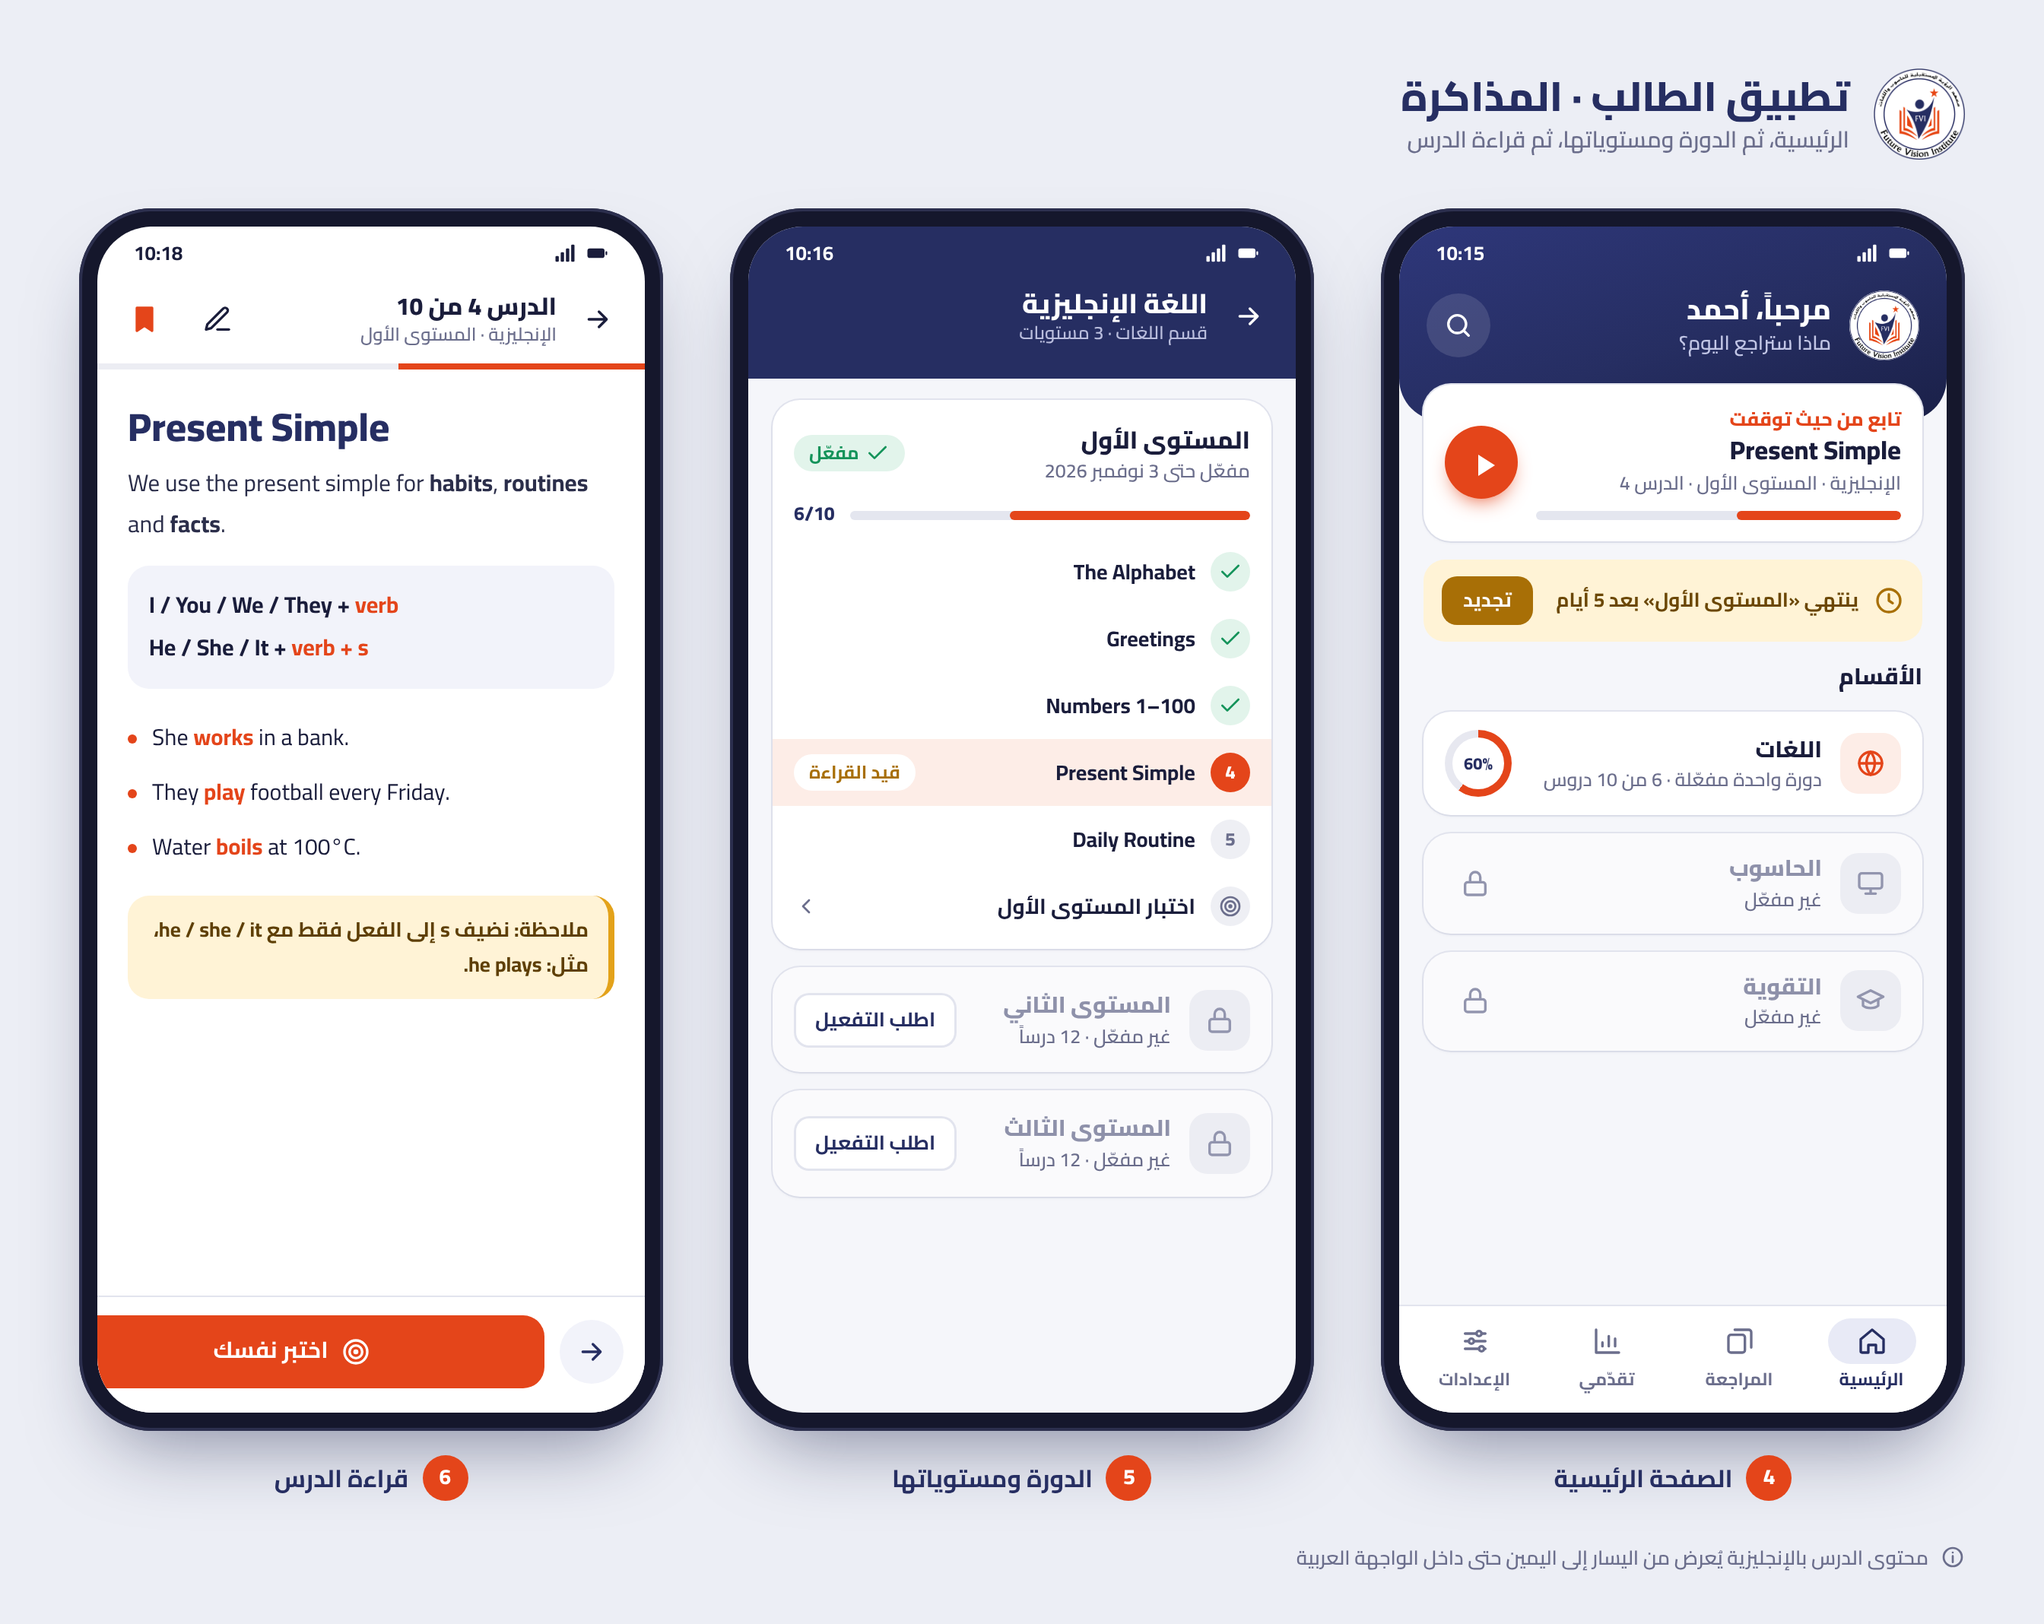
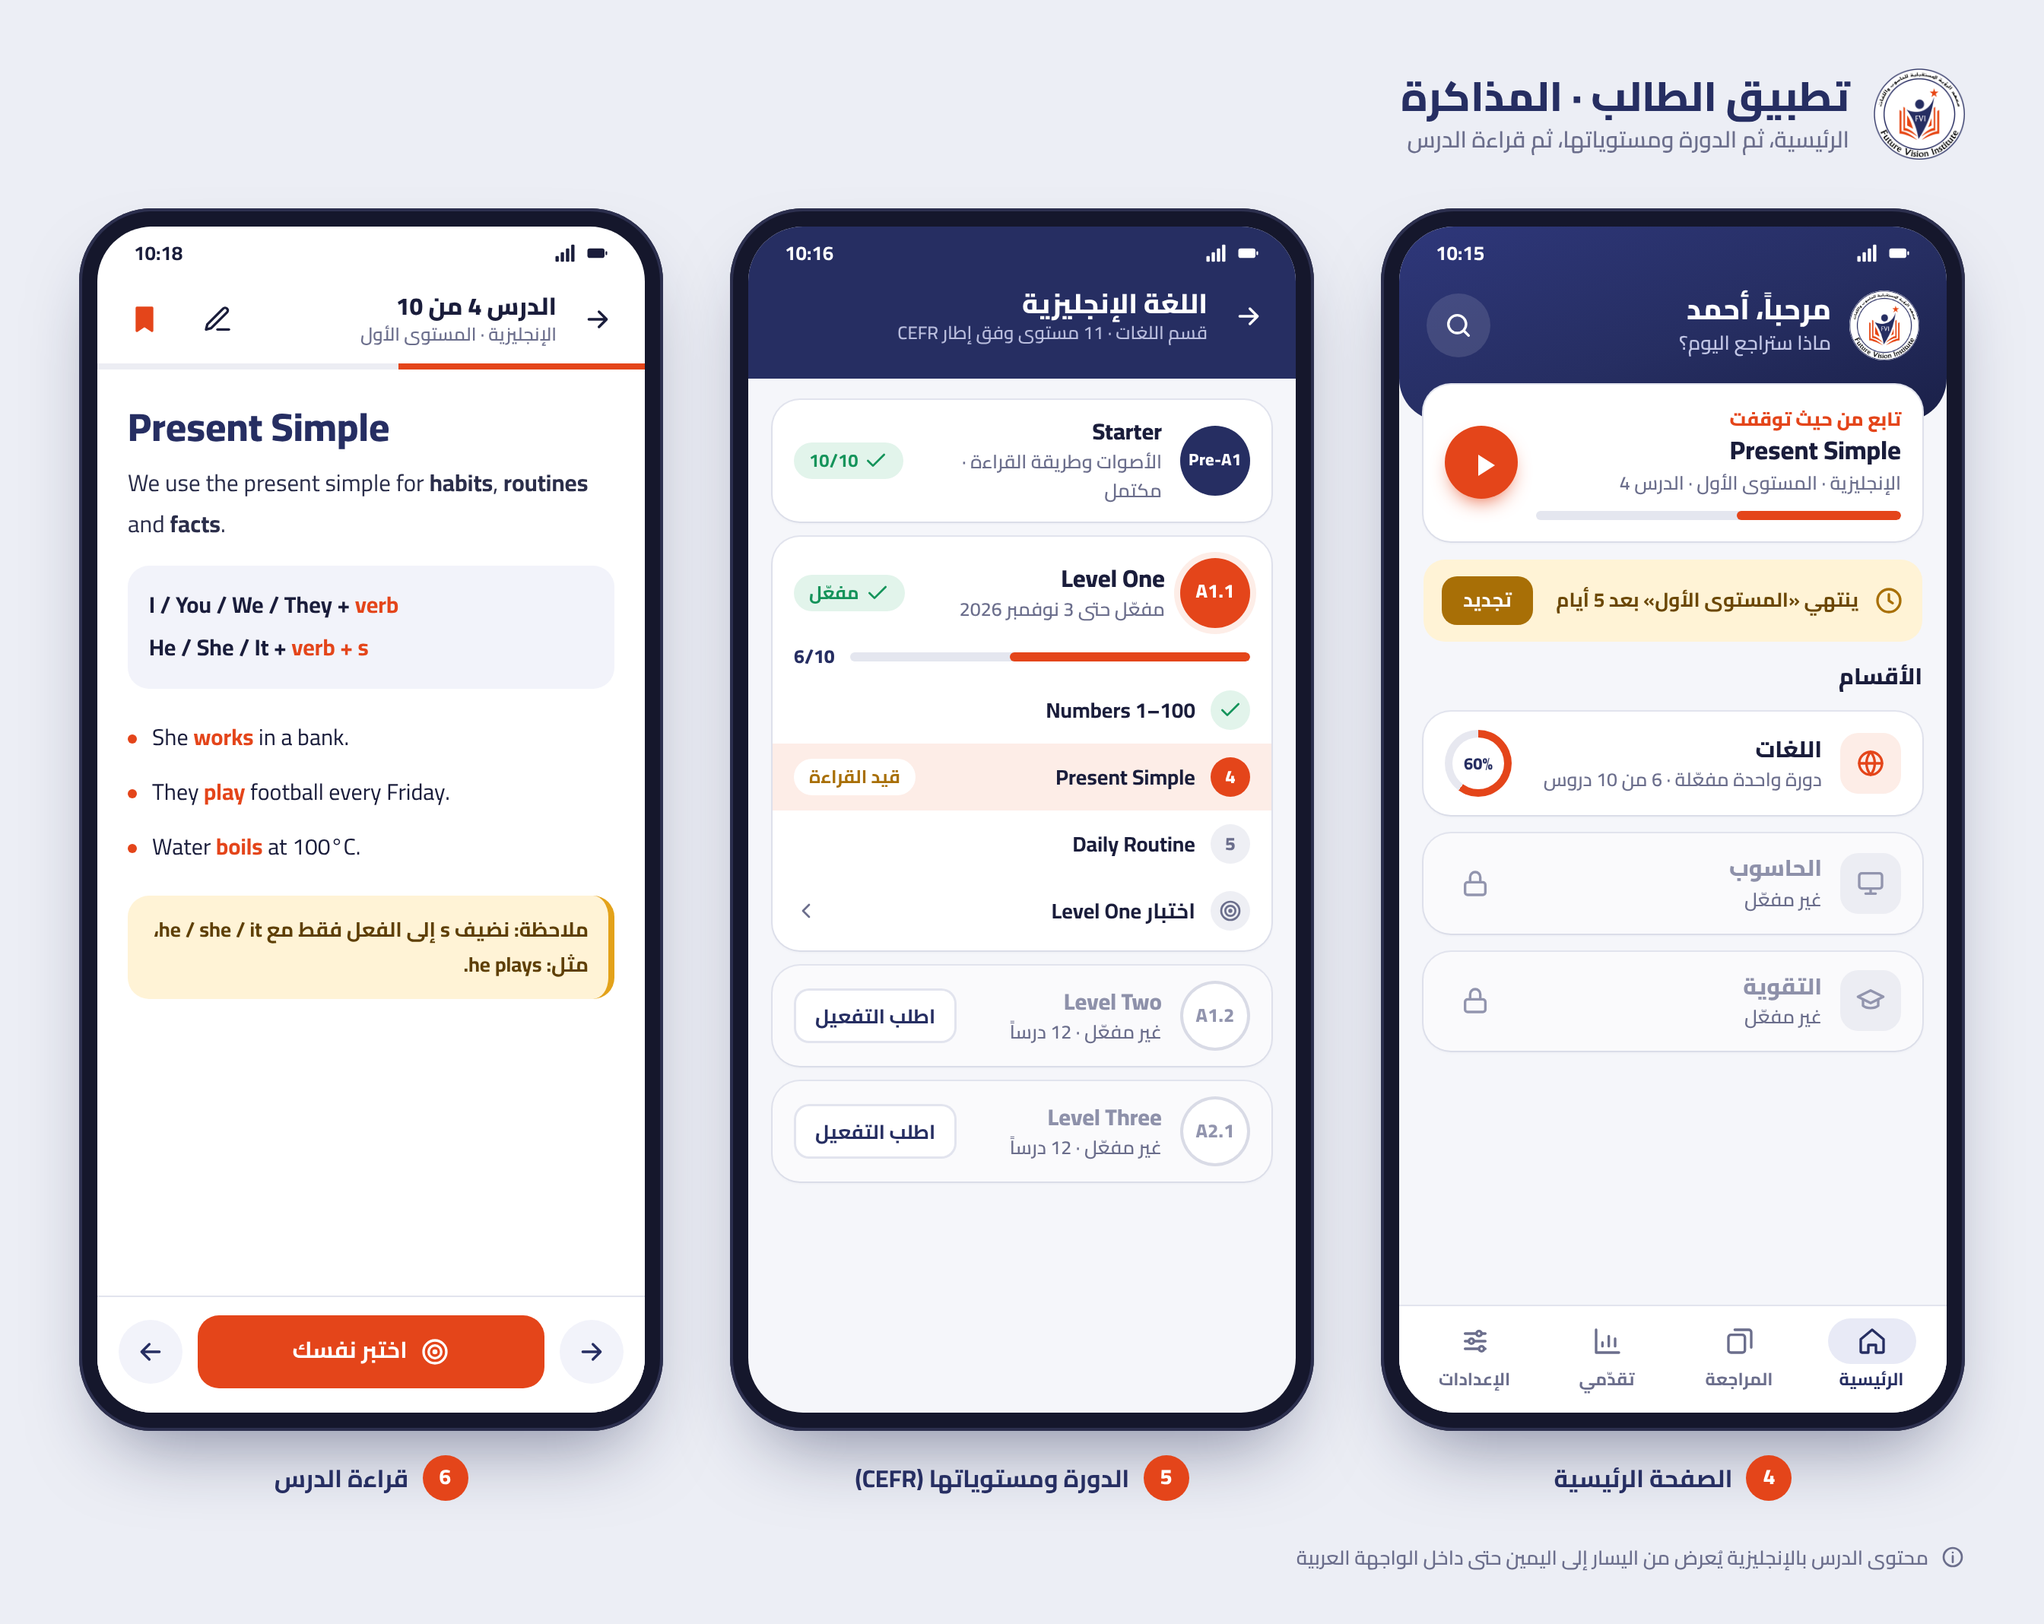
Show CEFR level badges in the course mockup; record the English curriculum structure
Also fixes side-by-side buttons in the mockups, which the earlier
flex:none change had pushed off-screen.

Claude-Session: https://claude.ai/code/session_01C6w6uQWX9anqqf4Qv3RHaB

diff --git a/docs/design/mockups.html b/docs/design/mockups.html
@@ -71,6 +71,7 @@ svg.i.sm{width:16px;height:16px} svg.i.lg{width:26px;height:26px} svg.i.xl{width
 
 /* controls */
 .btn{flex:none;height:50px;border-radius:14px;display:flex;align-items:center;justify-content:center;gap:8px;font-weight:700;font-size:15px;width:100%}
+.btn.grow{flex:1 1 0;width:auto}
 .btn.sm{height:36px;border-radius:10px;font-size:13px;width:auto;padding:0 14px}
 .btn-primary{background:var(--navy);color:#fff}
 .btn-accent{background:var(--orange);color:#fff}
@@ -164,6 +165,10 @@ svg.i.sm{width:16px;height:16px} svg.i.lg{width:26px;height:26px} svg.i.xl{width
 .locked .tt{color:#8E91AA}
 
 .lvl-head{display:flex;align-items:center;gap:10px}
+.cefr{width:46px;height:46px;border-radius:50%;display:grid;place-items:center;font-size:12.5px;font-weight:800;flex:none;direction:ltr;letter-spacing:.2px}
+.cefr.on{background:var(--orange);color:#fff;box-shadow:0 0 0 4px var(--orange-soft)}
+.cefr.done{background:var(--navy);color:#fff;font-size:11px}
+.cefr.off{background:#fff;color:#9295AE;box-shadow:inset 0 0 0 2px #D9DBE6}
 .lesson{display:flex;align-items:center;gap:10px;padding:9px 0;font-size:14px;font-weight:700}
 .lesson .ck{width:26px;height:26px;border-radius:50%;display:grid;place-items:center;flex:none;font-size:12px;font-weight:800}
 .ck.done{background:var(--green-soft);color:var(--green)}
@@ -467,35 +472,39 @@ svg.i.sm{width:16px;height:16px} svg.i.lg{width:26px;height:26px} svg.i.xl{width
         <div class="sb light" style="padding:4px 14px 0"><span>10:16</span><span class="ic"><svg><use href="#sig"/></svg><svg><use href="#bat"/></svg></span></div>
         <div style="display:flex;align-items:center;gap:6px;height:54px">
           <span class="ib"><svg class="i"><use href="#back"/></svg></span>
-          <div class="t"><h2>اللغة الإنجليزية</h2><div class="sub">قسم اللغات · 3 مستويات</div></div>
+          <div class="t"><h2>اللغة الإنجليزية</h2><div class="sub">قسم اللغات · 11 مستوى وفق إطار CEFR</div></div>
         </div>
       </div>
-      <div class="body" style="padding-top:14px;gap:12px">
-        <div class="card" style="padding-bottom:6px">
+      <div class="body" style="padding-top:14px;gap:10px">
+        <div class="card" style="display:flex;align-items:center;gap:12px;padding:10px 14px">
+          <span class="cefr done">Pre-A1</span>
+          <div class="grow"><div class="ltr" style="text-align:right;font-weight:800;font-size:15px">Starter</div><div class="small muted" style="font-weight:600">الأصوات وطريقة القراءة · مكتمل</div></div>
+          <span class="badge b-green"><svg class="i sm"><use href="#check"/></svg>10/10</span>
+        </div>
+        <div class="card" style="padding-bottom:4px">
           <div class="lvl-head">
-            <div class="grow"><div style="font-size:16px;font-weight:800">المستوى الأول</div><div class="small muted" style="font-weight:600">مفعّل حتى 3 نوفمبر 2026</div></div>
+            <span class="cefr on">A1.1</span>
+            <div class="grow"><div class="ltr" style="text-align:right;font-size:16px;font-weight:800">Level One</div><div class="small muted" style="font-weight:600">مفعّل حتى 3 نوفمبر 2026</div></div>
             <span class="badge b-green"><svg class="i sm"><use href="#check"/></svg>مفعّل</span>
           </div>
-          <div style="display:flex;align-items:center;gap:10px;margin:10px 0 6px"><div class="progress grow"><span style="width:60%"></span></div><span class="small" style="font-weight:800;color:var(--navy)">6/10</span></div>
-          <div class="lesson"><span class="ck done"><svg class="i sm"><use href="#check"/></svg></span><span class="ltr grow" style="text-align:right">The Alphabet</span></div>
-          <div class="lesson"><span class="ck done"><svg class="i sm"><use href="#check"/></svg></span><span class="ltr grow" style="text-align:right">Greetings</span></div>
+          <div style="display:flex;align-items:center;gap:10px;margin:10px 0 4px"><div class="progress grow"><span style="width:60%"></span></div><span class="small" style="font-weight:800;color:var(--navy)">6/10</span></div>
           <div class="lesson"><span class="ck done"><svg class="i sm"><use href="#check"/></svg></span><span class="ltr grow" style="text-align:right">Numbers 1–100</span></div>
           <div class="lesson now"><span class="ck now">4</span><span class="ltr grow" style="text-align:right">Present Simple</span><span class="badge b-amber" style="background:#fff">قيد القراءة</span></div>
           <div class="lesson"><span class="ck todo">5</span><span class="ltr grow" style="text-align:right">Daily Routine</span></div>
-          <div class="lesson"><span class="ck todo"><svg class="i sm"><use href="#target"/></svg></span><span class="grow">اختبار المستوى الأول</span><svg class="i sm muted"><use href="#chev"/></svg></div>
+          <div class="lesson"><span class="ck todo"><svg class="i sm"><use href="#target"/></svg></span><span class="grow">اختبار Level One</span><svg class="i sm muted"><use href="#chev"/></svg></div>
         </div>
-        <div class="card locked" style="display:flex;align-items:center;gap:12px">
-          <span class="ico gray"><svg class="i"><use href="#lock"/></svg></span>
-          <div class="grow"><div class="tt" style="font-weight:800;font-size:15px">المستوى الثاني</div><div class="small muted" style="font-weight:600">غير مفعّل · 12 درساً</div></div>
+        <div class="card locked" style="display:flex;align-items:center;gap:12px;padding:10px 14px">
+          <span class="cefr off">A1.2</span>
+          <div class="grow"><div class="tt ltr" style="text-align:right;font-weight:800;font-size:15px">Level Two</div><div class="small muted" style="font-weight:600">غير مفعّل · 12 درساً</div></div>
           <span class="btn sm btn-outline">اطلب التفعيل</span>
         </div>
-        <div class="card locked" style="display:flex;align-items:center;gap:12px">
-          <span class="ico gray"><svg class="i"><use href="#lock"/></svg></span>
-          <div class="grow"><div class="tt" style="font-weight:800;font-size:15px">المستوى الثالث</div><div class="small muted" style="font-weight:600">غير مفعّل · 12 درساً</div></div>
+        <div class="card locked" style="display:flex;align-items:center;gap:12px;padding:10px 14px">
+          <span class="cefr off">A2.1</span>
+          <div class="grow"><div class="tt ltr" style="text-align:right;font-weight:800;font-size:15px">Level Three</div><div class="small muted" style="font-weight:600">غير مفعّل · 12 درساً</div></div>
           <span class="btn sm btn-outline">اطلب التفعيل</span>
         </div>
       </div>
-    </div></div><div class="caption"><span class="n">5</span>الدورة ومستوياتها</div></div>
+    </div></div><div class="caption"><span class="n">5</span>الدورة ومستوياتها (CEFR)</div></div>
 
     <!-- 6. Lesson reader -->
     <div class="device"><div class="phone"><div class="screen" style="background:#fff">
@@ -585,8 +594,8 @@ svg.i.sm{width:16px;height:16px} svg.i.lg{width:26px;height:26px} svg.i.xl{width
         </div>
         <div class="small muted" style="text-align:center;font-weight:600;margin-top:10px">اضغط على البطاقة لقلبها</div>
         <div style="display:flex;gap:10px">
-          <div class="btn" style="background:var(--orange-soft);color:var(--orange)"><svg class="i"><use href="#renew"/></svg>لم أحفظها</div>
-          <div class="btn" style="background:var(--green);color:#fff"><svg class="i"><use href="#check"/></svg>أعرفها</div>
+          <div class="btn grow" style="background:var(--orange-soft);color:var(--orange)"><svg class="i"><use href="#renew"/></svg>لم أحفظها</div>
+          <div class="btn grow" style="background:var(--green);color:#fff"><svg class="i"><use href="#check"/></svg>أعرفها</div>
         </div>
         <div class="alert info" style="font-size:12.5px;font-weight:600"><svg class="i sm"><use href="#info"/></svg>البطاقات التي لم تحفظها تعود إليك أكثر حتى تثبت.</div>
       </div>

diff --git a/docs/REQUIREMENTS.md b/docs/REQUIREMENTS.md
@@ -42,6 +42,26 @@
 - لكل دورة **لغة محتوى** خاصة بها (عربية أو إنجليزية)، تحدد اتجاه عرض الدروس بغض النظر عن لغة الواجهة.
 - لكل عنصر **معرّف ثابت** (مثل `languages/english/level-1`) **لا يجوز تغييره بعد النشر**، لأن مفاتيح التشفير مشتقة منه (انظر 5.4).
 
+### دورة اللغة الإنجليزية (وفق إطار CEFR)
+
+مستوى تمهيدي، ثم 10 مستويات. لكل مستوى اسم يظهر بجانبه في دائرة **مستواه المقابل في إطار CEFR**. اسم المستوى يمكن تغييره، أما ما يقابله في CEFR فثابت.
+
+| المستوى | الدائرة (CEFR) | المعرّف | المحتوى |
+|---|---|---|---|
+| Starter | Pre-A1 | `languages/english/starter` | الأصوات وطريقة القراءة |
+| Level One | A1.1 | `languages/english/level-1` | |
+| Level Two | A1.2 | `languages/english/level-2` | |
+| Level Three | A2.1 | `languages/english/level-3` | |
+| Level Four | A2.2 | `languages/english/level-4` | |
+| Level Five | B1.1 | `languages/english/level-5` | |
+| Level Six | B1.2 | `languages/english/level-6` | |
+| Level Seven | B2.1 | `languages/english/level-7` | |
+| Level Eight | B2.2 | `languages/english/level-8` | |
+| Level Nine | C1.1 | `languages/english/level-9` | |
+| Level Ten | C1.2 | `languages/english/level-10` | |
+
+التوزيع أعلاه مقترح، وبانتظار تأكيد المعهد. تعليمات محتوى كل مستوى سيرسلها المعهد، ويُبنى المنهج مستوى بعد مستوى.
+
 ---
 
 ## 3. تطبيق الطالب
@@ -226,7 +246,8 @@ content/
 ```yaml
 # _unit.yaml
 id: level-1
-title: { ar: المستوى الأول, en: Level 1 }
+title: { ar: المستوى الأول, en: Level One }
+badge: A1.1            # الدائرة بجانب اسم المستوى (CEFR)
 no_screenshot: true   # اختياري، يحمي الوحدة كلها
 ```
 
@@ -312,7 +333,7 @@ docs/                    الوثائق والتصاميم
 
 ## 10. أسئلة مفتوحة
 
-1. **خصوصية المستودع:** المستودع حالياً **عام**، فأي شخص على الإنترنت يستطيع قراءة ما فيه. الكود العام لا يضر، لأن الحماية قائمة على المفاتيح لا على سرية الكود. لكن **المنهج الحقيقي يجب ألا يُرفع إلى مستودع عام**. الحل: تحويل المستودع إلى خاص، أو وضع المنهج في مستودع خاص منفصل. يجب حسم هذا قبل إضافة المنهج الحقيقي.
+1. **توزيع مستويات CEFR** في القسم 2: بانتظار التأكيد.
 2. **مراسم مفاتيح الإنتاج:** من يولّد مفاتيح الإنتاج، وأين تُحفظ نسختها الاحتياطية. تُحسم قبل الإصدار الأول (انظر 8).
 
 ---
@@ -343,3 +364,5 @@ docs/                    الوثائق والتصاميم
 | 20 | التقنية: Flutter. ترك المعهد الاختيارات التقنية للمبرمج. |
 | 21 | توقيت المعهد: الخرطوم (UTC+2)، ويمكن تغييره من إعدادات تطبيق الإدارة. |
 | 22 | تُبنى ملفات APK على GitHub Actions، ومفاتيح الإنتاج تُحفظ أسراراً مشفّرة هناك (انظر 8). |
+| 23 | يبقى المستودع عاماً. يقبل المعهد أن يكون نص المنهج المصدري مقروءاً على GitHub، فالتفعيل يحمي استخدام التطبيق لا سرية النص. |
+| 24 | منهج الإنجليزية يتبع إطار CEFR: مستوى Starter، ثم 10 مستويات. بجانب كل مستوى دائرة فيها ما يقابله في CEFR. |
